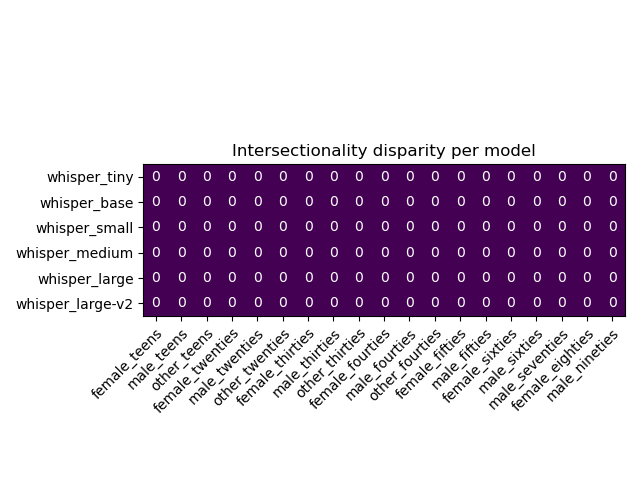
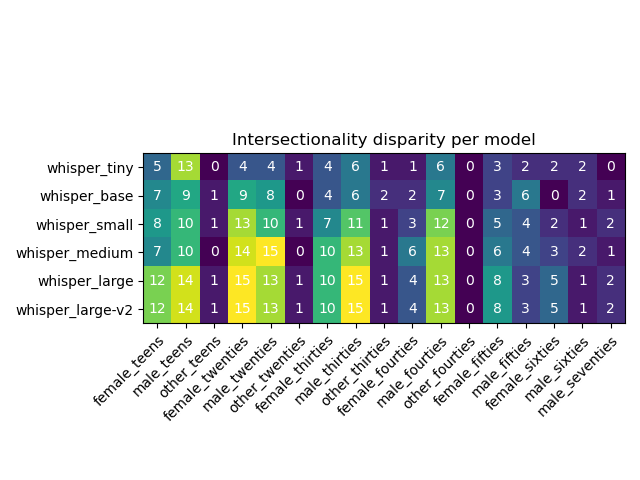
adding new heatmap

Changed region(s): [[0.0, 0.2812, 1.0, 0.875]]

diff --git a/visualize.py b/visualize.py
@@ -61,7 +61,7 @@ def make_heatmap(intersectionality_significant_results, total_runs):
   
   models = list(MODEL_PARAMETERS.keys())
   models_results = []
-  intersectionality_groups = ['female_teens', 'male_teens', 'other_teens', 'female_twenties', 'male_twenties', 'other_twenties', 'female_thirties', 'male_thirties', 'other_thirties', 'female_fourties', 'male_fourties', 'other_fourties', 'female_fifties', 'male_fifties', 'female_sixties', 'male_sixties', 'male_seventies', 'female_eighties', 'male_nineties']
+  intersectionality_groups = ['female_teens', 'male_teens', 'other_teens', 'female_twenties', 'male_twenties', 'other_twenties', 'female_thirties', 'male_thirties', 'other_thirties', 'female_fourties', 'male_fourties', 'other_fourties', 'female_fifties', 'male_fifties', 'female_sixties', 'male_sixties', 'male_seventies'] #, 'female_eighties', 'male_nineties']
 
   # for model in models:
   #   for demographic_group in intersectionality_significant_results[model]:
@@ -106,20 +106,29 @@ def read_results():
 
 
 def do_significance_testing(wers, x_demo, z_demo):
-
+  
   # intersectionality
   if z_demo == 'all':
+    
     other_demographic_groups = [x for x in wers.keys() if x != 'female' and x != 'male' and x != x_demo]
     wers_other_demographic_groups = [wers[x] for x in other_demographic_groups]
     all_other_wers = [item for row in wers_other_demographic_groups for item in row]
+    
     test_result = stats.ttest_ind(wers[x_demo], all_other_wers)
+
+
   
   # gender
   else:
     test_result = stats.ttest_ind(wers[x_demo], wers[z_demo])
   
   if test_result[1] < 0.05:
-    # negative t-value:
+    #ensure min 10 sentences for a demographic group.
+    if len(wers[x_demo]) < 10:
+      print(x_demo, len(wers[x_demo]), wers[x_demo])
+      return None
+    
+    # negative t-value means that x_demo has the lowest mean. Z-demo is negatively disparate.
     if test_result[0] < 0:
       return z_demo
     elif test_result[0] > 0:
@@ -152,9 +161,12 @@ def get_significance(results, gender_disparity=True, intersectionality_disparity
           wers = {}
           dem_group_to_eval_data = results[dataset][model][language]
           for demographic_group, wer_res in dem_group_to_eval_data.items():
+            # if len(wer_res) < 5:
+            #   print(language, demographic_group, wer_res)
             wers[demographic_group] = [EvalInfo(*x).wer for x in wer_res]
 
           if gender_disparity:
+
             gender_sign = do_significance_testing(wers, 'female', 'male')
             if gender_sign:
               gender_significant_results[model][f'{gender_sign}'] += 1
@@ -171,16 +183,22 @@ def get_significance(results, gender_disparity=True, intersectionality_disparity
               intersec_sign = do_significance_testing(wers, demographic_group, 'all')
                 
               if intersec_sign:
-                if intersec_sign == 'all': continue
+                #if intersec_sign == 'all': continue
                 if demographic_group not in intersectionality_significant_results[model].keys():
                   intersectionality_significant_results[model][f'{demographic_group}'] = 0
                 intersectionality_significant_results[model][f'{demographic_group}'] += 1
          
         except KeyError: continue
 
+  f_sig = sum([gender_significant_results[model]['female'] for model in gender_significant_results.keys()])
+  m_sig = sum([gender_significant_results[model]['male'] for model in gender_significant_results.keys()])
+  total = sum(total_runs.values())
+
+  print(f"There are {total} experiments. Of these {(f_sig+m_sig)/total} % are significant. {f_sig/total} are disparate against women, {m_sig/total} are disparate against men.")
+
   if gender_disparity:
     make_plot_genderdiff(gender_significant_results, total_runs)
-    visualize_per_model_significance(gender_significant_results, total_runs) 
+    #visualize_per_model_significance(gender_significant_results, total_runs) 
 
   if intersectionality_disparity:
     make_heatmap(intersectionality_significant_results, total_runs)
